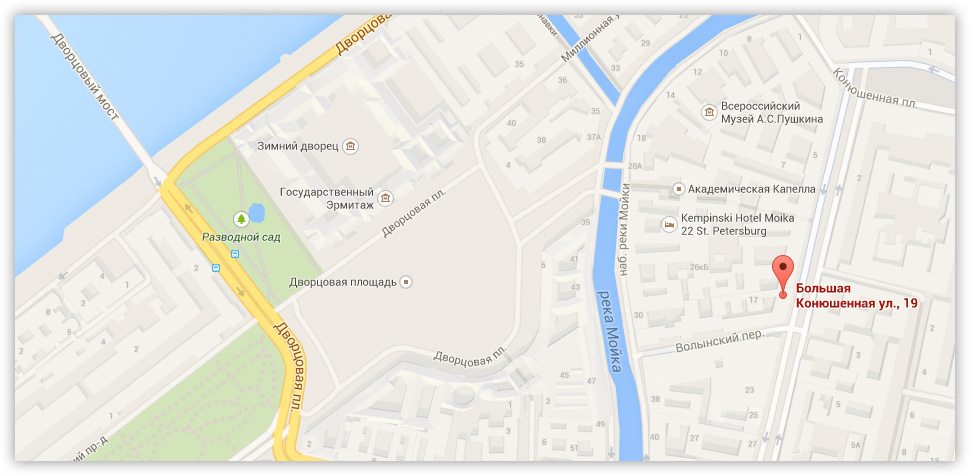
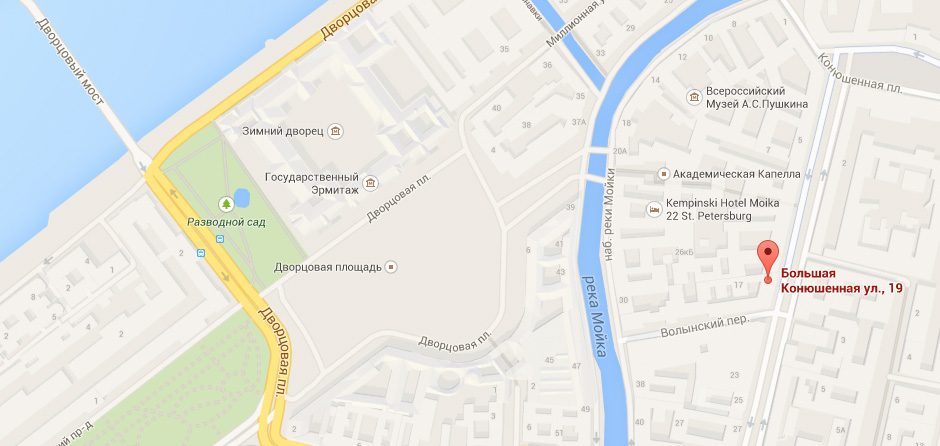
добавил формы

diff --git a/catalog.html b/catalog.html
@@ -23,7 +23,7 @@
         </p>
         <div class="user-menu">
           <a class="user-profile" href="#">Равшан Джамшутович</a>
-          <a class="user-logout" href="#"></a>
+          <a class="visually-hidden user-logout" href="#">Выход</a>
           <a class="user-orders" href="#">Мои заказы</a>
           <a class="user-account" href="#">Личный кабинет</a>
         </div>
@@ -55,25 +55,50 @@
 
       <section class="filter">
         <h3 class="filter-title">Фильтр:</h3>
-        <!-- Фильт по цене -->
-        <div class="brand-filter">
-          <h4 class="filter-subtitle">Производители</h4>
-            <ul class="brand-filter-list">
-              <li>Bosch</li>
-              <li>Интерскол</li>
-              <li>Makita</li>
-              <li>Dewalt</li>
-              <li>Hitachi</li>
+        <form class="filter-form" action="https://echo.htmlacademy.ru" method="get">
+          <!-- Фильт по цене -->
+          <fieldset> <!-- Я бы еще для стилизации классы тегам fieldset добавил -->
+            <legend>Производители:</legend>
+              <ul class="brand-filter-list">
+                <li>
+                  <input class="visually-hidden filter-input filter-input-checkbox" type="checkbox" name="bosch" id="filter-bosch" checked>
+                  <label for="filter-bosch">Bosch</label>
+                </li>
+                <li>
+                  <input class="visually-hidden filter-input filter-input-checkbox" type="checkbox" name="interscol" id="filter-interscol">
+                  <label for="filter-interscol">Интерскол</label>
+                </li>
+                <li>
+                  <input class="visually-hidden filter-input filter-input-checkbox" type="checkbox" name="makita" id="filter-makita" checked>
+                  <label for="filter-makita">Makita</label>
+                </li>
+                <li>
+                  <input class="visually-hidden filter-input filter-input-checkbox" type="checkbox" name="dewalt" id="filter-dewalt">
+                  <label for="filter-dewalt">Dewalt</label>
+                </li>
+                <li>
+                  <input class="visually-hidden filter-input filter-input-checkbox" type="checkbox" name="hitachi" id="filter-hitachi">
+                  <label for="filter-hitachi">Hitachi</label>
+                </li>
+              </ul>
+          </fieldset>
+          <!-- тегам li классы не добавлял, потому что они одинаково все стилизованы, а классы есть у ul -->
+          <fieldset>
+            <legend>Питание</legend>
+            <ul class="supply-filter-list">
+              <li>
+                <input class="visually-hidden filter-input filter-input-radio" type="radio" name="supply-filter" value="battery" id="supply-filter-battery" checked>
+                <label for="supply-filter-battery">Аккумуляторные</label>
+              </li>
+              <li>
+                <input class="visually-hidden filter-input filter-input-radio" type="radio" name="supply-filter" value="power" id="supply-filter-power">
+                <label for="supply-filter-power">Сетевые</label>
+              </li>
             </ul>
-        </div>
-        <div class="power-filter">
-          <h4 class="filter-subtitle">Питание</h4>
-          <ul class="power-filter-list">
-            <li>Аккумуляторные</li>
-            <li>Сетевые</li>
-          </ul>
-         </div>
-        </section>
+           </fieldset>
+           <button class="button button-apply" type="submit">Показать</button>
+        </form>
+      </section>
 
       <section class="sort">
         <h3 class="sort-title">Сортировка:</h3>
@@ -163,6 +188,14 @@
             <span class="actual-price">12 500 р.</span>
           </li>
         </ul>
+      </section>
+
+      <section class="modal modal-in-basket">
+        <h3 class="visually-hidden">Статус работы с товаром</h3>
+        <p>Товар добавлен в корзину</p>
+        <a class="button" href="#">Оформить заказ</a>
+        <button class="button button-continue" type="button">Продолжить покупки</button>
+        <button class="modal-close" type="button">Закрыть</button>
       </section>
 
     </main>

diff --git a/index.html b/index.html
@@ -80,19 +80,19 @@
       <section class="modal modal-write-us">
         <h2 class="visually-hidden">Форма обратной связи</h2>
         <form class="write-us-form" action="https://echo.htmlacademy.ru" method="post">
-          <p class="write-us-item">
+          <p class="write-us-item-name">
             <label>
               Ваше  имя:
               <input type="text" name="name" placeholder="Имя Фамилия">
             </label>
           </p>
-          <p class="write-us-item">
+          <p class="write-us-item-email">
             <label>
               Ваш e-mail:
-              <input type="text" name="e-mail" placeholder="e-mail@example.com">
+              <input type="email" name="email" placeholder="e-mail@example.com">
             </label>
           </p>
-          <p class="write-us-item">
+          <p class="write-us-item-text-mail">
             <label>
               Текст письма:
               <textarea name="text-mail" rows="5" cols="20" placeholder="В свободной форме"></textarea>
@@ -103,10 +103,10 @@
         <button class="modal-close" type="button">Закрыть</button>
       </section>
 
-      <section class="modal-map">
+      <section class="modal-map"> <!-- класс modal данноу тегу section не добавлял осознанно, т.к. общей стилизации кроме тени и положения крестика у этого попапа в сравнении с остальными нет, а тень и крестик добавлю в свойства для класса modal-map -->
         <h2 class="visually-hidden">Как до нас добраться</h2>
         <p>
-          <img src="img/big-map1.jpg" width="940" height="446" alt="Офис компании по адресу г. Санкт-Петербург, ул. Большая Конюшенная д. 19/"8>
+          <img src="img/big-map.jpg" width="940" height="446" alt="Офис компании по адресу г. Санкт-Петербург, ул. Большая Конюшенная д. 19/8">
         </p>
         <button class="modal-close" type="button">Закрыть</button>
       </section>
